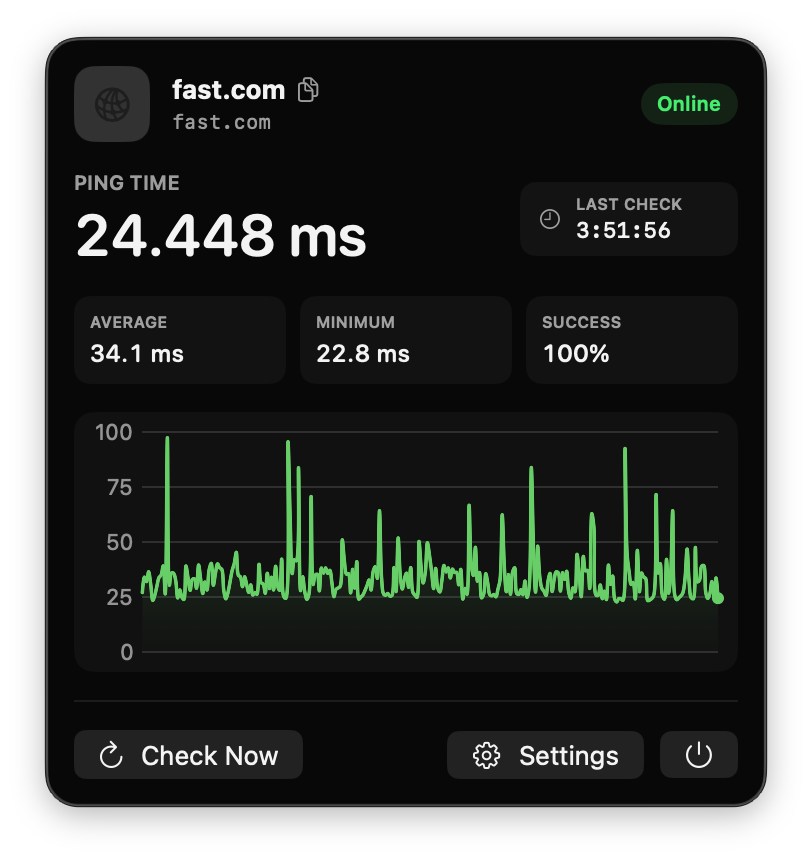
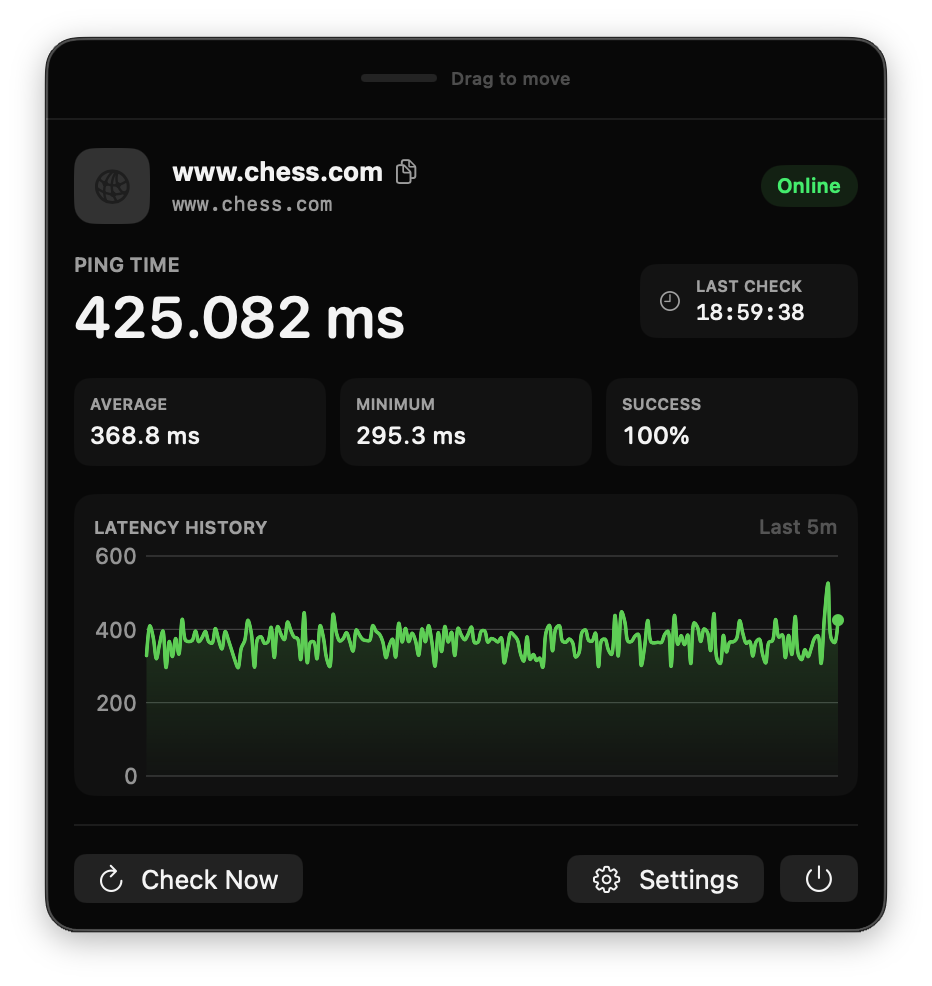
Improve settings navigation and documentation

Changed region(s): [[0.0308, 0.0302, 0.9544, 0.9674], [0.6466, 0.3628, 0.7697, 0.4535], [0.1232, 0.7558, 0.1539, 0.786]]

diff --git a/Sources/PingBar/SettingsView.swift b/Sources/PingBar/SettingsView.swift
@@ -2,6 +2,7 @@ import SwiftUI
 
 struct SettingsView: View {
     @ObservedObject var monitor: PingMonitor
+    @State private var showingRestoreConfirmation = false
     @AppStorage(PingSettings.Keys.url) private var url = PingSettings.defaultURL
     @AppStorage(PingSettings.Keys.interval) private var interval = PingSettings.defaultInterval
     @AppStorage(PingSettings.Keys.timeout) private var timeout = PingSettings.defaultTimeout
@@ -157,12 +158,23 @@ struct SettingsView: View {
                         .font(.caption)
                         .foregroundStyle(.green)
                     Spacer()
-                    Button("Restore Defaults", action: restoreDefaults)
+                    Button("Restore Defaults…") {
+                        showingRestoreConfirmation = true
+                    }
                 }
             }
             .padding(16)
         }
         .scrollIndicators(.visible)
+        .confirmationDialog(
+            "Restore all settings?",
+            isPresented: $showingRestoreConfirmation
+        ) {
+            Button("Restore Defaults", role: .destructive, action: restoreDefaults)
+            Button("Cancel", role: .cancel) {}
+        } message: {
+            Text("This resets the endpoint, timing, thresholds, menu-bar display, and panel appearance.")
+        }
         .onChange(of: yellowFailures) { _, value in
             if redFailures <= value { redFailures = value + 1 }
         }

diff --git a/Sources/PingBar/PingBarApp.swift b/Sources/PingBar/PingBarApp.swift
@@ -107,9 +107,13 @@ private struct PingMenu: View {
             HStack {
                 Button { page = .status } label: {
                     Label("Status", systemImage: "chevron.left")
+                        .padding(.vertical, 8)
+                        .contentShape(Rectangle())
                 }
                 .buttonStyle(.plain)
                 .foregroundStyle(.secondary)
+                .help("Back to status")
+                .accessibilityLabel("Back to status")
                 Spacer()
                 Label("Settings", systemImage: "gearshape.fill")
                     .font(.caption.weight(.semibold))

diff --git a/README.md b/README.md
@@ -1,10 +1,18 @@
 # PingBar
 
+<div style="test-align:center" align="center">
+    <img src="bar.png" alt="PingBar in menu-bar">
+</div>
+
 A lightweight, native macOS menu-bar monitor for HTTP availability and latency. PingBar checks an endpoint on a schedule, keeps recent response history, and shows current health without taking space in the Dock.
 
-| Status | Settings |
+## Interface
+
+| Status dashboard | Settings |
 | --- | --- |
-| ![PingBar status panel](main.png) | ![PingBar settings panel](settings.png) |
+| ![PingBar status dashboard in dark mode](main.png) | ![PingBar settings in light mode](settings.png) |
+
+The status dashboard keeps current health, latency, recent history, and primary actions in one compact view. Settings uses the same panel footprint and scrolls independently, so switching pages does not move or resize the panel.
 
 ## Features
 
@@ -16,6 +24,8 @@ A lightweight, native macOS menu-bar monitor for HTTP availability and latency. 
 - Compact, fixed-width latency values that keep the menu-bar item stable.
 - Configurable menu-bar text size, circle size, HTTP success range, and chart window.
 - Movable status and settings panel with a shared compact footprint.
+- System, light, and dark appearances with optional macOS transparency.
+- Persistent panel position across checks, failures, and app launches.
 - Settings stored locally in macOS `UserDefaults`.
 
 ## Requirements
@@ -64,8 +74,10 @@ Click the PingBar item in the macOS menu bar to view current latency, recent sta
 
 - Click **Check Now** to run an immediate request.
 - Click **Settings** to configure the endpoint, timing, status thresholds, chart, and menu-bar appearance.
+- Click **Status** in the Settings header to return to the dashboard.
 - Drag the strip at the top of either page to move the panel.
 - Use **Circle**, **Circle + Time**, or **Time** to control the menu-bar display.
+- Choose **System**, **Light**, or **Dark** under **Panel** and optionally disable the transparent background.
 
 Menu-bar latency is rounded and kept to six monospaced characters so its reserved width does not change. Milliseconds appear as values such as `024 ms`; latencies of one second or more appear as values such as `1.24 s` or `12.3 s`.
 
@@ -78,6 +90,10 @@ Menu-bar latency is rounded and kept to six monospaced characters so its reserve
 | Red | Consecutive failures reached the configured failure threshold. |
 
 A successful request resets the consecutive-failure counter. Responses outside the configured inclusive HTTP status range count as failures.
+
+### Settings behavior
+
+Changes are saved automatically. Endpoint, interval, timeout, status thresholds, HTTP success range, chart history, menu-bar presentation, and panel appearance persist across launches. **Restore Defaults…** asks for confirmation before resetting all options.
 
 ## Develop
 
@@ -97,13 +113,3 @@ The app icon is generated from `logo.svg` and `Resources/AppIcon.svg`. With Imag
 ```sh
 xcrun swift run PingBar
 ```
-
-### Test
-
-```sh
-xcrun swift test
-```
-
-GitHub Actions runs the tests and uploads a packaged `PingBar.app` artifact for every push to `main` and every pull request.
-
-Pushing a version tag such as `v1.1.0` builds and publishes the ready-to-run `PingBar.zip` on GitHub Releases.
